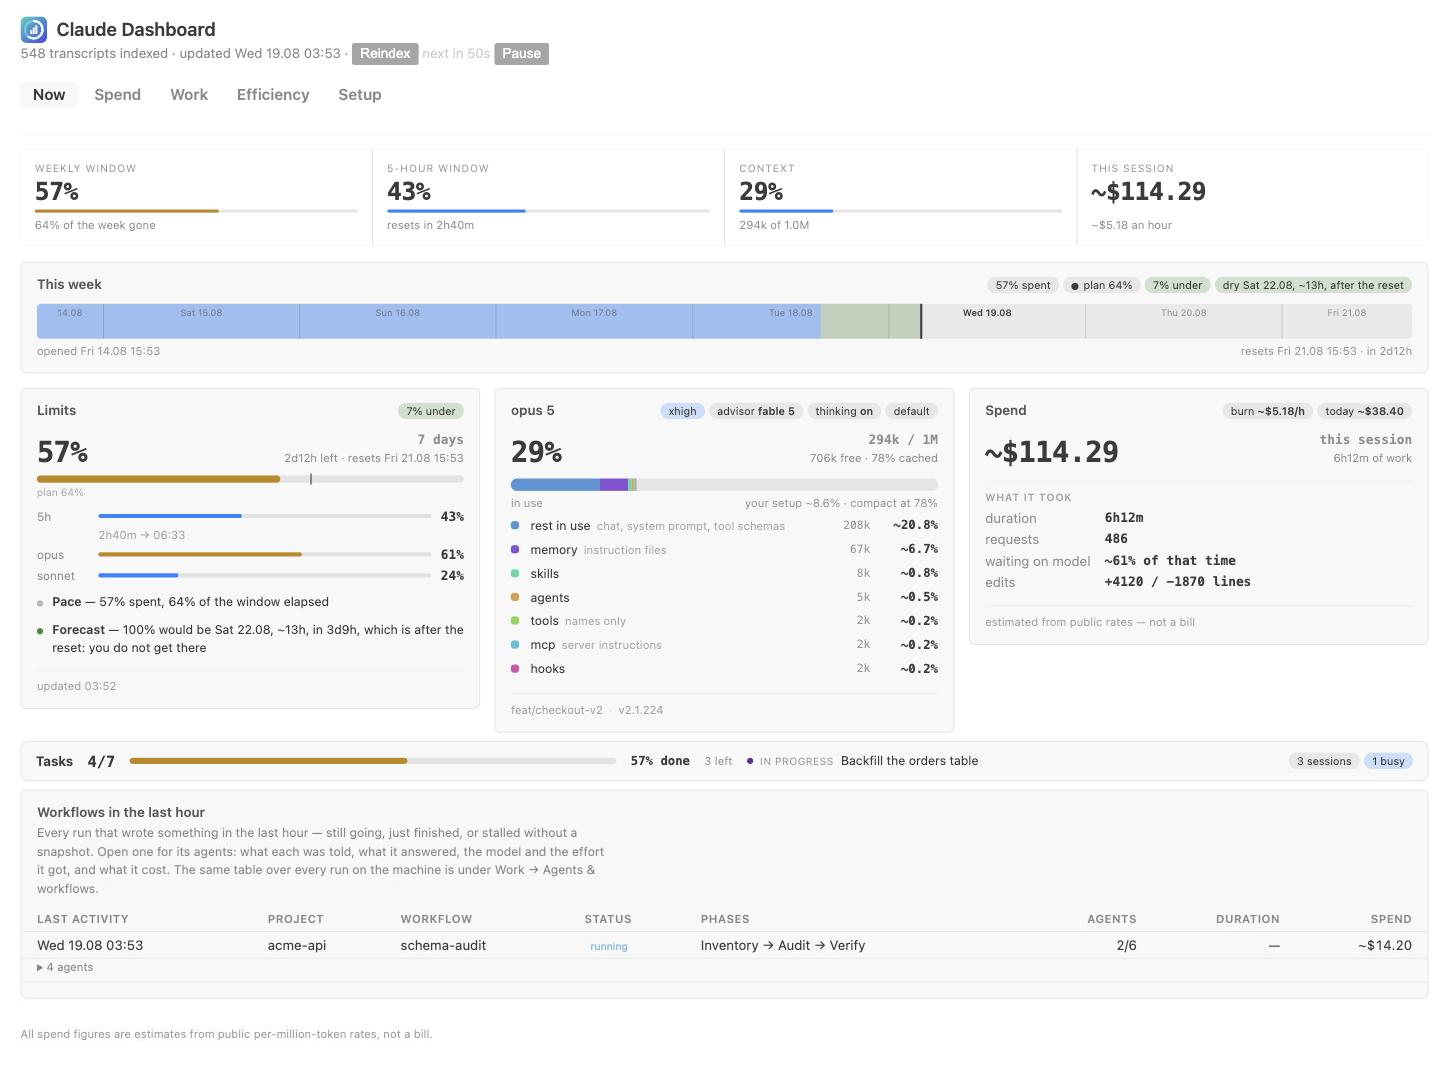
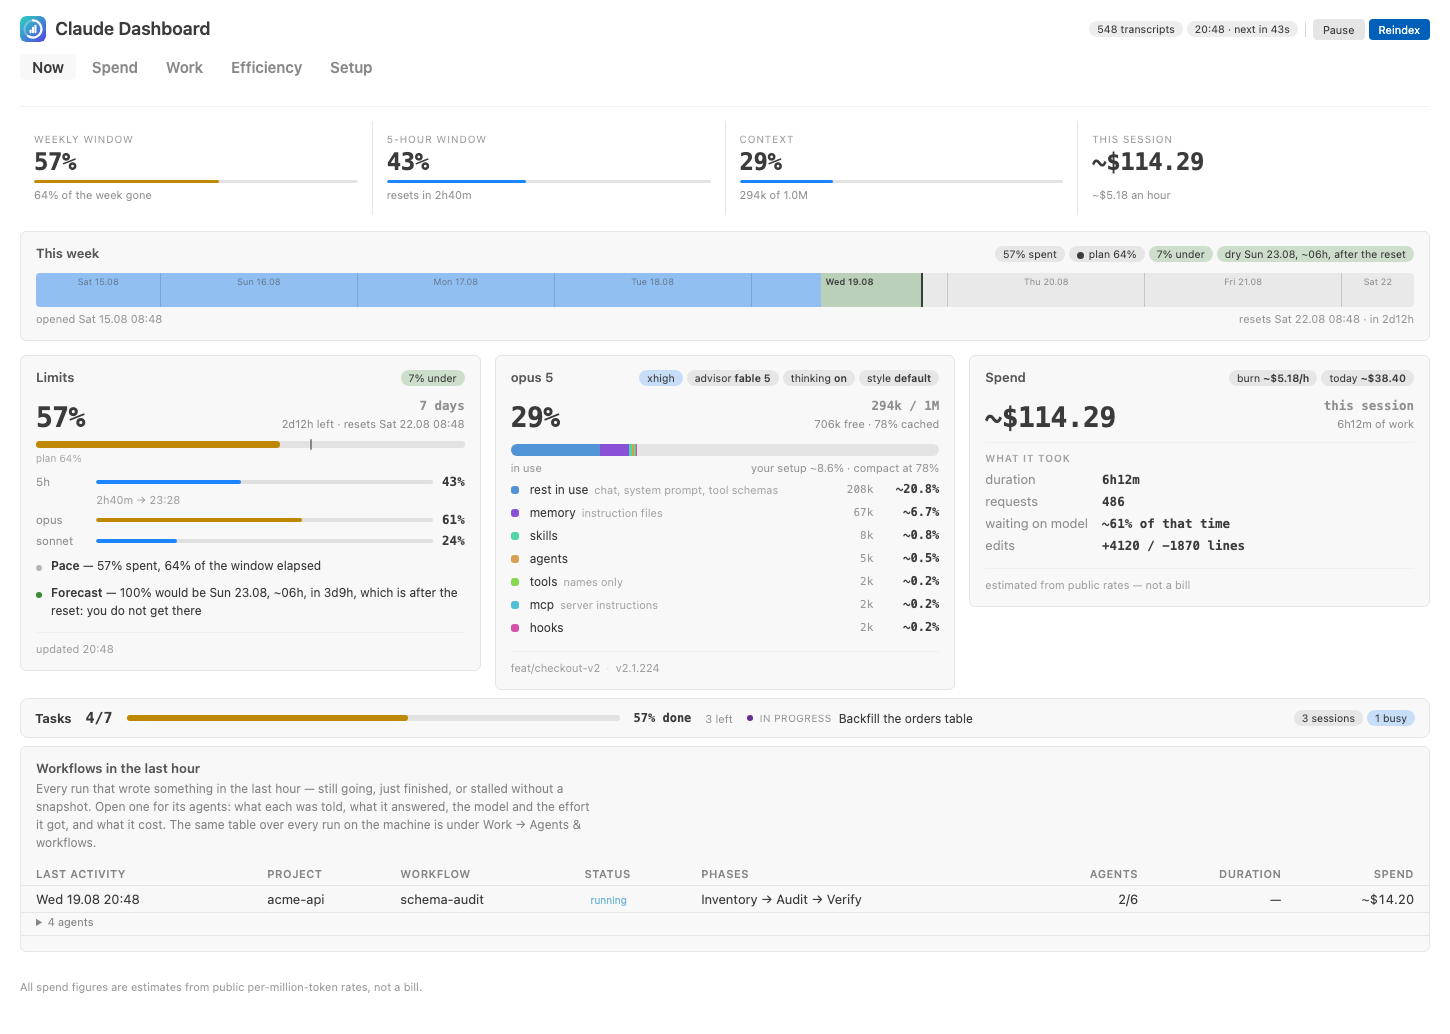
feat(header): the page header speaks the language of the panels under it
The row at the top of every tab was the last thing on the page still written
the old way: a sentence of facts joined by dots, with two controls dropped into
the middle of it. It is now the same grammar the panels use — the name and the
mark on the left, the state of the index and the two controls on the right, and
the facts as pills.

Freshness and the countdown were saying one thing from two ends, so they share
a pill: `19:09 · next in 55s` while the timer runs, `19:09` alone when it is
paused, the full date on the hover where it is wanted only when the answer is
"not fresh at all".

The buttons were pills with a cursor — the same 10.5px, the same 999px radius,
the same 9% fill — so the row read as four facts, two of which happened to be
clickable. They wear `.btn` now, the pair Save and Add segment wear, and a
hairline says where the reading stops and the pressing starts. Pausing turns
the control yellow and empties the countdown.

Caught on the way, because the listing had to be re-shot: `--demo` strips the
version from a screenshot so a picture goes stale on a change to what it shows
rather than on every bump, and it stripped by a class the version had left when
it moved into a pill. Nothing failed — the header rendered, the tests passed,
and v0.38.0 was photographed for both storefronts. The anchor is an attribute
now and a test holds both files to it.

Ten listing images re-shot from tools/demo-index.js, all five tabs that carry a
[…]

diff --git a/test/dashboard.test.js b/test/dashboard.test.js
@@ -1013,7 +1013,12 @@ test('the page names itself the same way the command that opens it does', () => 
     const manifest = JSON.parse(require('node:fs').readFileSync(`${__dirname}/../package.json`, 'utf8'));
     const html = db.render(demoIndex(), ix.summarize(demoIndex()), { files: 1, lastRun: Date.now(), history: [] });
     assert.match(html, /<title>Claude Dashboard<\/title>/);
-    assert.match(html, /<h1>Claude Dashboard <span class="ver">/);
+    assert.match(html, /<h1>Claude Dashboard<\/h1>/);
+    // The version rides beside the name as a pill, in the same shape the panels
+    // use for state — it was a bare span with its own type treatment. The
+    // attribute is what `--demo` strips it by; see the test that holds both
+    // files to it.
+    assert.match(html, /<h1>Claude Dashboard<\/h1><span class="pill" data-version>v\d+\.\d+\.\d+<\/span>/);
     const open = manifest.contributes.commands.find((c) => c.command === 'claudeStatusline.dashboard');
     assert.equal(open.title, 'Claude: Open dashboard');
 });
@@ -1479,21 +1484,82 @@ test('pausing the timer from the header is the same setting as the switch', () =
     });
 
     const on = page(true);
-    assert.match(on, /<button id="pause" class="link" data-on="1"/);
+    assert.match(on, /<button id="pause" class="btn head-btn" data-on="1"/);
     // The deadline and the interval both reach the script: after a pause the
     // countdown has to be restarted from now, and the markup's own deadline is
     // by then however long the pause lasted out of date.
     assert.match(on, /id="next" data-next="\d+" data-every="60"/);
+    // The countdown lives inside the freshness pill, so the two facts about the
+    // index — when it was built, when it will be — share one element rather
+    // than standing beside each other saying the same thing twice.
+    assert.match(on, /<span class="pill" id="idx" title="Last built [^"]+">\d\d:\d\d<i id="next"/);
+    // Pausing colours the control and empties the countdown; the script does
+    // both, and the page is never rebuilt on the way into a pause.
+    assert.match(on, /pauseEl\.classList\.toggle\('held', !on\)/);
+    assert.match(on, /if \(!on\) \{ nextEl\.textContent = ''; return; \}/);
 
     // Off is the same button in the other position, not a different control and
     // not a sentence where a control used to be.
-    assert.match(page(false), /<button id="pause" class="link" data-on="0"/);
+    assert.match(page(false), /<button id="pause" class="btn head-btn" data-on="0"/);
 
     // Both controls write claudeStatusline.autoRefresh, and the script keeps
     // them in step in both directions.
     assert.match(on, /key: 'autoRefresh'/);
     assert.match(on, /input\[data-set="autoRefresh"\]/);
     assert.match(on, /<input[^>]*data-set="autoRefresh"/);
+});
+
+// The version is on every screenshot, because it is in the header of every tab —
+// so `--demo` strips it, or a listing image goes stale on each bump rather than
+// on each change to what it shows. That strip is a string replacement in another
+// file, and it broke silently the day the version moved from its own `.ver`
+// span into a pill: the header kept rendering, the tests kept passing, and
+// v0.38.0 was photographed for the marketplace. The anchor is now an attribute
+// nothing else uses, and this test holds the two files to it.
+test('the version carries the anchor --demo strips it by', () => {
+    const page = db.render(demoIndex(), ix.summarize(demoIndex()), { files: 1, lastRun: Date.now(), history: [] });
+    const head = (page.match(/<header class="page-head">[\s\S]*?<\/header>/) || [''])[0];
+    assert.match(head, /<span class="pill" data-version>v[^<]+<\/span>/);
+
+    const preview = require('node:fs').readFileSync(`${__dirname}/../tools/preview.js`, 'utf8');
+    assert.ok(preview.includes('data-version'), 'tools/preview.js no longer strips by data-version');
+});
+
+// The header row carries both kinds of thing the page has: facts, which are
+// pills, and controls, which are buttons. The first version of it drew the
+// controls as pills with a cursor — same font size, same 999px radius, same 9%
+// fill — so the row said "state, state, state, state" and the two things you
+// could actually press were found by reading them. A button here is the page's
+// own `.btn`, the one `Save` and `Add segment` use, and a hairline says where
+// the reading stops and the pressing starts.
+test('the header presses with the same buttons as the rest of the page', () => {
+    const page = db.render(demoIndex(), ix.summarize(demoIndex()), {
+        files: 1, lastRun: Date.parse('2026-08-11T04:00:00Z'), history: [],
+        config: { autoRefresh: true, refreshInterval: 60, segments: [], defaults: [], presets: [], palette: [] },
+    });
+    const head = (page.match(/<header class="page-head">[\s\S]*?<\/header>/) || [''])[0];
+    assert.ok(head, 'the page has a header');
+
+    // Both controls are `.btn`, and the one that does the work is `primary` —
+    // the same pair of classes Save carries at the bottom of Setup.
+    assert.match(head, /<button id="pause" class="btn head-btn"/);
+    assert.match(head, /<button id="refresh" class="btn head-btn primary"/);
+    assert.match(page, /<button class="btn primary" id="save"/);
+
+    // The hairline sits between the last fact and the first control, not at
+    // either end of the group: that is the whole of what it says.
+    // The class has to end where the name does, or the `.pills` container that
+    // holds them counts as a fourth pill.
+    const order = [...head.matchAll(/class="(pill|head-sep|btn)(?: [^"]*)?"/g)].map((m) => m[1]);
+    assert.deepEqual(order, ['pill', 'pill', 'pill', 'head-sep', 'btn', 'btn']);
+
+    // And every class the header invents has rules behind it. The version this
+    // replaced shipped `class="link"` on a live button with no rule anywhere in
+    // the stylesheet, which is a thing only a test can notice: an unstyled
+    // button still renders, just as the browser's own.
+    for (const cls of ['.head-btn', '.head-sep']) {
+        assert.ok(db.STYLE.includes(cls), `${cls} has no rule in dashboard.css`);
+    }
 });
 
 // The 50/80 thresholds are a port of `color_for` in statusline.sh, and CLAUDE.md

diff --git a/dashboard.js b/dashboard.js
@@ -70,6 +70,20 @@ function fmtDateTime(ms) {
     return `${WEEKDAYS[d.getDay()]} ${p(d.getDate())}.${p(d.getMonth() + 1)} ${p(d.getHours())}:${p(d.getMinutes())}`;
 }
 
+/**
+ * The clock alone, for the header pill that says when the index was last built.
+ * The day is dropped rather than abbreviated: the pill sits beside a countdown
+ * to the next build, so the question it answers is "how fresh", and a date is
+ * only interesting when the answer is "not fresh at all" — which is what the
+ * full timestamp on its title attribute is for.
+ */
+function fmtClock(ms) {
+    if (!ms) return '—';
+    const d = new Date(ms);
+    const p = (n) => String(n).padStart(2, '0');
+    return `${p(d.getHours())}:${p(d.getMinutes())}`;
+}
+
 // Short model label: "claude-opus-5" → "opus 5". Full ids are noise in a table.
 // In place of a reply that never arrived — a spent limit, a dropped connection,
 // a 403 — Claude Code writes a record of its own and marks it with this id. Its
@@ -2625,14 +2639,18 @@ if (nextEl && pauseEl) {
   let due = Number(nextEl.dataset.next);
   const paint = () => {
     const on = pauseEl.dataset.on === '1';
+    // The button says what pressing it will do; that the timer is stopped is
+    // said by the button's own colour and by the countdown going away, so the
+    // two never state the same fact twice.
     pauseEl.textContent = on ? 'Pause' : 'Resume';
+    pauseEl.classList.toggle('held', !on);
     pauseEl.title = on
       ? 'Stop rebuilding the page on the timer. The same claudeStatusline.autoRefresh you can set on the Settings tab.'
       : 'Rebuild the page on the timer again.';
-    if (!on) { nextEl.textContent = 'paused'; return; }
+    if (!on) { nextEl.textContent = ''; return; }
     const state = countdown(due, Date.now(), every);
     due = state.due;
-    nextEl.textContent = state.text;
+    nextEl.textContent = ' · ' + state.text;
   };
   // One setting, two controls: the switch on the Settings tab and this button
   // are the same autoRefresh, so flipping either has to move the other. The
@@ -3145,11 +3163,17 @@ function render(index, total, meta) {
     return `<!DOCTYPE html><html lang="en"><head><meta charset="utf-8">
 <meta http-equiv="Content-Security-Policy" content="default-src 'none'; style-src 'unsafe-inline'; script-src 'unsafe-inline';">
 <title>Claude Dashboard</title><style>${STYLE}</style></head><body>
-<div class="mark">${MARK}<h1>Claude Dashboard <span class="ver">v${esc(VERSION)}</span></h1></div>
-<p class="sub">${plural(meta.files, 'transcript')} indexed${meta.lastRun ? ` · updated ${esc(fmtDateTime(meta.lastRun))}` : ''}
- · <button id="refresh" class="link">Reindex</button>
- <span class="dim" id="next" data-next="${Number(meta.lastRun || 0) + (Number((meta.config || {}).refreshInterval) || 60) * 1000}" data-every="${Number((meta.config || {}).refreshInterval) || 60}">·</span>
- <button id="pause" class="link" data-on="${(meta.config || {}).autoRefresh === false ? '0' : '1'}">·</button></p>
+<header class="page-head">
+  <div class="mark">${MARK}<h1>Claude Dashboard</h1><span class="pill" data-version>v${esc(VERSION)}</span></div>
+  <div class="pills">
+    <span class="pill">${plural(meta.files, 'transcript')}</span>
+    <span class="pill" id="idx"${meta.lastRun ? ` title="Last built ${esc(fmtDateTime(meta.lastRun))}"` : ''}>${
+    meta.lastRun ? esc(fmtClock(meta.lastRun)) : 'not built yet'}<i id="next" data-next="${Number(meta.lastRun || 0) + (Number((meta.config || {}).refreshInterval) || 60) * 1000}" data-every="${Number((meta.config || {}).refreshInterval) || 60}"></i></span>
+    <span class="head-sep" aria-hidden="true"></span>
+    <button id="pause" class="btn head-btn" data-on="${(meta.config || {}).autoRefresh === false ? '0' : '1'}">·</button>
+    <button id="refresh" class="btn head-btn primary">Reindex</button>
+  </div>
+</header>
 ${navHtml()}
 ${nowTab(meta.now, meta.workflows, meta.metrics)}
 ${overviewTab(total, dayModels, modelOrder, meta.config || {})}

diff --git a/dashboard.css b/dashboard.css
@@ -12,8 +12,48 @@ h1 { font-size: 18px; margin: 0 0 2px; font-weight: 600; }
 /* The extension's own mark, inline rather than an <img>: a webview image would
    need asWebviewUri plumbed through and img-src opened in the CSP, for one
    26-pixel glyph that is four shapes. */
+/* The page header in the grammar the panels use: the name on the left, the
+   state of the index and the two controls on the right. The row it replaced put
+   facts and buttons in one sentence joined by dots, and the buttons carried a
+   class with no rules at all — so the only unstyled controls on the page were
+   the two at the very top of it. */
+.page-head { display: flex; align-items: center; justify-content: space-between;
+  gap: 14px; flex-wrap: wrap; margin-bottom: 12px; }
+/* Centred, not stretched. A pill is 16px of line-height and a button is 22px,
+   and the default `stretch` grew the pills to match while their text stayed on
+   its own line-height — three pixels of the label riding above the middle of
+   its own pill, which is exactly how it looked. */
+.page-head .pills { align-items: center; }
 .mark { display: flex; align-items: center; gap: 9px; }
 .mark svg { display: block; flex: none; border-radius: 6px; }
+/* Freshness and the countdown to the next build are one fact from two ends, so
+   they share a pill: `17:26 · next in 55s` while the timer runs, `17:26` alone
+   when it is paused. The full date is on the title, where it is wanted only when
+   the answer is "not fresh at all". */
+#idx i { font-style: normal; }
+/* The row holds both kinds of thing the page has — facts, which are pills, and
+   controls, which are buttons — so the two may not share a shape. These are the
+   page's own `.btn`, the pair Save and Add segment wear, shrunk to the line the
+   facts sit on; `.head-btn` sets four properties and inherits the rest. The
+   version before it was a pill with a cursor: same 10.5px, same 999px radius,
+   same 9% fill, and therefore unreadable as something you could press. The
+   descendant selector is what gives these rules the specificity to land on top
+   of `.btn`, which is declared much further down. */
+.page-head .head-btn { font-size: 11px; line-height: 15px; padding: 2px 9px; border-radius: 4px; }
+.page-head .head-btn:focus-visible { outline: 1px solid var(--vscode-focusBorder); outline-offset: 1px; }
+/* A stopped timer is a state of the page, and the control holding it says so in
+   the same yellow a warning pill uses. 45% rather than the pills' 25: this fill
+   sits behind a border and a label instead of behind a word, and at a quarter it
+   came out beige on the light theme rather than yellow. */
+.page-head .head-btn.held { color: inherit;
+  background: color-mix(in srgb, var(--vscode-charts-yellow) 45%, transparent);
+  border-color: color-mix(in srgb, var(--vscode-charts-yellow) 70%, transparent); }
+.page-head .head-btn.held:hover { background: color-mix(in srgb, var(--vscode-charts-yellow) 60%, transparent); }
+/* Where the reading stops and the pressing starts. It says nothing on its own,
+   which is why it is a hairline and not a gap: a gap at this size reads as the
+   row having wrapped. */
+.head-sep { width: 1px; height: 15px; margin: 0 3px; flex: 0 0 auto;
+  background: color-mix(in srgb, var(--vscode-foreground) 20%, transparent); }
 .ver { font-size: 11.5px; font-weight: 500; opacity: .45; letter-spacing: .02em;
   font-family: var(--vscode-editor-font-family); vertical-align: 2px; }
 h2 { font-size: 13px; margin: 22px 0 8px; font-weight: 600; opacity: .85; }

diff --git a/tools/preview.js b/tools/preview.js
@@ -172,8 +172,14 @@ const page = demo ? (() => {
     // screenshot — and a listing image would then go stale on each bump rather
     // than on each change to what it shows. Seven bumps in one day is what made
     // this worth a line. The marketplace prints the version on the card anyway.
+    //
+    // Matched on `data-version`, an attribute nothing else uses: this once keyed
+    // on `class="ver"`, the version moved into a pill during the header
+    // redesign, and the replacement quietly stopped matching — the number was
+    // photographed for the listing with nothing failing anywhere. A test in
+    // test/dashboard.test.js holds both ends of this to the attribute.
     return html
-        .replace(/ <span class="ver">v[^<]*<\/span>/, '')
+        .replace(/<span class="pill" data-version>v[^<]*<\/span>/, '')
         .replace(/(data-preset-preview="([^"]+)">)(?:<span class="chip-seg">[\s\S]*?<\/span>)*/g,
         (m, head, id) => head + (previews[id] || []).map((line) => `<span class="chip-seg">${esc(line)}</span>`).join(''));
 })() : html;

diff --git a/CHANGELOG.md b/CHANGELOG.md
@@ -9,10 +9,32 @@ Everything below 0.20.0 was built and installed on one machine — the extension
 had not been published yet. The history is kept anyway: it is what the dashboard
 grew out of, and a version that shipped nothing is worth saying so.
 
-## [Unreleased]
+## [0.40.0] — 2026-08-19
+
+### Changed
+
+- **The page header is written in the same grammar as the panels below it.** The
+  name, the mark and the version sit on the left; the state of the index and the
+  two controls on the right. What used to be a sentence of facts joined by dots
+  is now pills, and the freshness and the countdown share one of them —
+  `19:09 · next in 55s` while the timer runs, `19:09` alone when it is paused,
+  with the full date on the hover, where it is wanted only when the answer is
+  "not fresh at all".
+- **The header's buttons are the page's own buttons.** They were pills with a
+  cursor — the same 10.5px, the same 999px radius, the same 9% fill — so the row
+  read as four facts, two of which happened to be clickable. `Pause` and
+  `Reindex` now wear `.btn`, the pair `Save` and `Add segment` wear, and a
+  hairline separates what is read from what is pressed. Pausing turns the
+  control yellow, the colour a warning pill uses, and empties the countdown.
 
 ### Fixed
 
+- **The listing's screenshots had started carrying the version number.** `--demo`
+  strips it so a picture goes stale on a change to what it shows rather than on
+  every bump — but it stripped by a class the version left when it moved into a
+  pill, and nothing failed: the header rendered, the tests passed, and the number
+  was photographed. The anchor is an attribute now, and a test holds both files
+  to it.
 - **The context panel could show a percentage over nothing.** The window gauge
   gives up its own track because the breakdown draws the same measurement in
   colour underneath — but the breakdown is absent when the transcript cannot be
